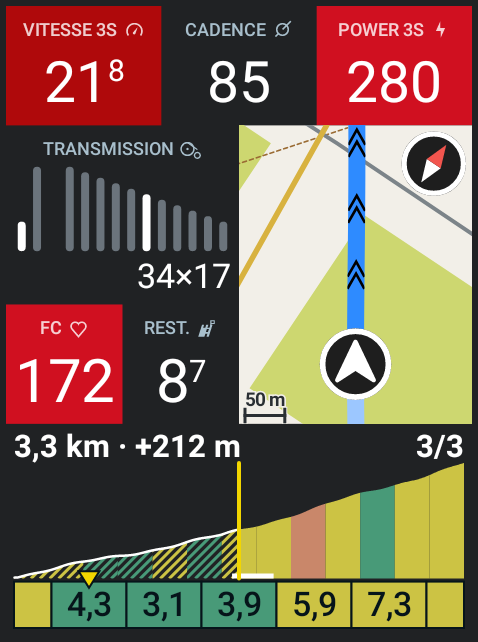
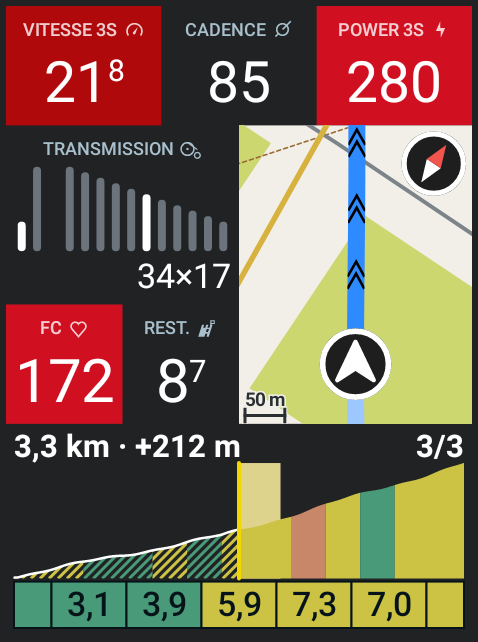
Fait partir les cases de pente du coureur, et marque leur portion d'une bande jaune
Les cases détaillent les 600 m qui viennent à partir du coureur, au bord gauche : aucune
marque n'a plus à dire où il est sur leur rangée. Sur le profil, la portion qu'elles
couvrent passe en aplat jaune pâle au-dessus de la silhouette, à la place du trait blanc.
Les tronçons voisins de même couleur ne font plus qu'un aplat, sans couture verticale.

diff --git a/app/src/main/kotlin/io/github/jmallus/guidage/ui/ProfileRenderer.kt b/app/src/main/kotlin/io/github/jmallus/guidage/ui/ProfileRenderer.kt
@@ -174,6 +174,13 @@ object ProfileRenderer {
         // L'étiquette de position tient dans l'en-tête ; sans en-tête, elle ne s'écrit pas.
         val etiquette = model.positionLabel?.takeIf { entetes }
 
+        // La portion que détaillent les cases, en aplat jaune pâle au-dessus de la silhouette :
+        // posé avant elle, il n'en reste visible que le ciel. C'est lui qui relie les deux
+        // échelles — sans lui, rien ne dirait que les six cases ne couvrent qu'un bout de côte.
+        model.climbZoom?.let { cote ->
+            val detail = model.climbDetail ?: (cote.startDistance..cote.endDistance)
+            drawDetailBand(canvas, model.window, detail, scale, left, top, right, bottom)
+        }
         drawProfile(canvas, model, scale, left, top, right, bottom, positionX, palette)
         // Cadré sur une côte, le voile qui en marque l'étendue couvrirait toute la bande, et sa
         // pente moyenne est déjà écrite dans l'en-tête.
@@ -187,8 +194,7 @@ object ProfileRenderer {
             // les kilomètres : la distance au sommet est déjà dans l'en-tête, et c'est la pente
             // du morceau qui vient qu'on cherche — comme sur le ClimbPro du Karoo.
             val detail = model.climbDetail ?: (cote.startDistance..cote.endDistance)
-            drawDetailBracket(canvas, model.window, detail, scale, left, right, bottom)
-            drawGradeRow(canvas, detail, troncons(cote, model.window.points), left, right, bottom, model.positionDistance, tickSize)
+            drawGradeRow(canvas, detail, troncons(cote, model.window.points), left, right, bottom, tickSize)
         } else {
             drawAxis(canvas, model, scale, left, right, bottom, tickSize, labelled, palette)
         }
@@ -371,7 +377,19 @@ object ProfileRenderer {
         // gardent les cent mètres de leur fenêtre.
         val pas = PROFILE_GRADE_STEPS.firstOrNull { ceil(climb.length / it) <= MAX_PROFILE_SEGMENTS }
             ?: PROFILE_GRADE_STEPS.last()
-        for ((debut, fin, pente) in troncons(climb, window.points, pas)) {
+        // Les tronçons voisins de même couleur ne font qu'un aplat : peints un à un, ils
+        // laissaient entre eux la couture d'un pixel que l'anticrénelage dessine au bord de
+        // chaque forme, et le profil se lisait rayé de traits verticaux.
+        val aplats = troncons(climb, window.points, pas).fold(mutableListOf<Troncon>()) { acc, t ->
+            val dernier = acc.lastOrNull()
+            if (dernier != null && climbColor(dernier.pente) == climbColor(t.pente)) {
+                acc[acc.lastIndex] = Troncon(dernier.debut, t.fin, t.pente)
+            } else {
+                acc += t
+            }
+            acc
+        }
+        for ((debut, fin, pente) in aplats) {
             val xa = x(debut)
             val xb = x(fin)
             if (xb <= xa) continue
@@ -482,7 +500,6 @@ object ProfileRenderer {
         left: Float,
         right: Float,
         bottom: Float,
-        position: Double?,
         tickSize: Float,
     ) {
         val etendue = (detail.endInclusive - detail.start).takeIf { it > 0.0 } ?: return
@@ -517,52 +534,22 @@ object ProfileRenderer {
             text.color = climbInk(troncon.pente)
             canvas.drawText(chiffre, (xa + xb) / 2f, ligne, text)
         }
-        // Le coureur sur la rangée, à l'échelle de celle-ci : la marque du profil, au-dessus,
-        // n'est pas à l'aplomb, les deux échelles différant.
-        // Un triangle posé sur le bord haut des cases, pointe en bas : un trait les traversait
-        // et coupait le chiffre de la case où l'on roule.
-        position?.takeIf { it in detail }?.let {
-            val xp = x(it)
-            val demi = tickSize * POSITION_TRIANGLE
-            val pointe = Path().apply {
-                moveTo(xp - demi, haut - demi)
-                lineTo(xp + demi, haut - demi)
-                lineTo(xp, haut + demi * 0.6f)
-                close()
-            }
-            canvas.drawPath(pointe, Paint(Paint.ANTI_ALIAS_FLAG).apply {
-                style = Paint.Style.FILL
-                color = CREST
-            })
-            canvas.drawPath(pointe, Paint(Paint.ANTI_ALIAS_FLAG).apply {
-                style = Paint.Style.STROKE
-                strokeWidth = 2f
-                color = GRADE_TILE_INK
-            })
-        }
     }
 
-    /**
-     * Sur le profil, la portion que détaillent les cases : un trait au pied de la silhouette,
-     * de la largeur de la fenêtre glissante. C'est lui qui relie les deux échelles — sans lui,
-     * rien ne dirait que les six cases ne couvrent qu'un bout de la côte.
-     */
-    private fun drawDetailBracket(
+    /** La bande jaune pâle de la portion détaillée, du haut du profil à son pied. */
+    private fun drawDetailBand(
         canvas: Canvas,
         window: ProfileWindow,
         detail: ClosedFloatingPointRange<Double>,
         scale: FisheyeScale,
         left: Float,
+        top: Float,
         right: Float,
         bottom: Float,
     ) {
         fun x(distance: Double) =
             (left + scale.fractionAt(distance - window.start) * (right - left)).toFloat().coerceIn(left, right)
-        val y = bottom - DETAIL_BRACKET_WIDTH / 2f
-        canvas.drawLine(x(detail.start), y, x(detail.endInclusive), y, Paint(Paint.ANTI_ALIAS_FLAG).apply {
-            color = DETAIL_BRACKET
-            strokeWidth = DETAIL_BRACKET_WIDTH
-        })
+        canvas.drawRect(x(detail.start), top, x(detail.endInclusive), bottom, Paint().apply { color = DETAIL_BAND })
     }
 
     private fun crestPaint(color: Int, width: Float) = Paint(Paint.ANTI_ALIAS_FLAG).apply {
@@ -968,12 +955,12 @@ object ProfileRenderer {
     private val PROFILE_GRADE_STEPS = listOf(100.0, 200.0, 250.0, 500.0, 1_000.0)
     private const val MAX_PROFILE_SEGMENTS = 16
 
-    /** Demi-largeur du triangle de position sur les cases, en corps de graduation. */
-    private const val POSITION_TRIANGLE = 0.4f
+    /**
+     * La bande de la portion détaillée : le jaune de l'itinéraire, pâli et voilé, pour qu'il ne
+     * rivalise pas avec le trait de position, franc.
+     */
+    private const val DETAIL_BAND = 0xD9FFF3A0.toInt()
 
-    /** Le trait qui marque, au pied du profil, la portion détaillée par les cases. */
-    private const val DETAIL_BRACKET = 0xFFFFFFFF.toInt()
-    private const val DETAIL_BRACKET_WIDTH = 5f
 
     /**
      * L'étiquette de position : l'encre sombre du nombre, son corps en part de celui des

diff --git a/app/src/main/kotlin/io/github/jmallus/guidage/extension/FieldModels.kt b/app/src/main/kotlin/io/github/jmallus/guidage/extension/FieldModels.kt
@@ -15,7 +15,6 @@ import io.github.jmallus.guidage.settings.GuidageSettings
 import io.github.jmallus.guidage.ui.PreviewData
 import io.github.jmallus.guidage.ui.ProfileFieldModel
 
-import kotlin.math.min
 
 /**
  * Ce qu'affiche le champ « Profil à venir », et l'heure d'arrivée qu'en tirent les autres.
@@ -84,18 +83,13 @@ object FieldModels {
             if (status != null) {
                 val cote = status.climb
                 // Deux échelles. Le profil montre la côte entière, du pied au sommet : c'est sa
-                // forme qu'on regarde. Les cases de pente, dessous, détaillent une fenêtre de
-                // 600 m qui glisse avec le coureur : à l'échelle de toute la côte, un col de six
-                // kilomètres ne laissait que trois chiffres lisibles devant lui. La fenêtre garde
-                // un tronçon derrière la marque et s'arrête au sommet ; une côte plus courte
-                // qu'elle est détaillée en entier.
-                val debut = if (cote.length <= CLIMB_WINDOW_METERS) {
-                    cote.startDistance
-                } else {
-                    (quantized - CLIMB_WINDOW_METERS * CLIMB_RECUL_FRACTION)
-                        .coerceIn(cote.startDistance, cote.endDistance - CLIMB_WINDOW_METERS)
-                }
-                val longueur = min(cote.length, CLIMB_WINDOW_METERS)
+                // forme qu'on regarde. Les cases de pente, dessous, détaillent les 600 m qui
+                // viennent, à leur échelle à elles : à celle de toute la côte, un col de six
+                // kilomètres ne laissait que trois chiffres lisibles. Elles partent du coureur,
+                // au bord gauche, comme sur le Climber : ce qu'on a derrière soi n'y a pas de
+                // place, et aucune marque n'a donc à dire où l'on est.
+                val debut = quantized.coerceIn(cote.startDistance, cote.endDistance)
+                val longueur = CLIMB_WINDOW_METERS
                 return ProfileFieldModel(
                     window = Guidance.profileWindow(route, cote.startDistance, cote.length),
                     climbDetail = debut..(debut + longueur),
@@ -184,11 +178,8 @@ object FieldModels {
     private const val RECUL_FRACTION = 0.2
 
     /**
-     * La portée du zoom de côte : six tronçons de cent mètres (m), le gros plan du Climber
-     * du Karoo, où cinq ou six cases de pente tiennent sous le profil.
+     * Ce que détaillent les cases de pente sous le zoom de côte : six tronçons de cent mètres
+     * (m), le gros plan du Climber du Karoo.
      */
     private const val CLIMB_WINDOW_METERS = 600.0
-
-    /** La part de cette fenêtre laissée derrière le coureur : un tronçon. */
-    private const val CLIMB_RECUL_FRACTION = 1.0 / 6.0
 }

diff --git a/README.md b/README.md
@@ -23,7 +23,7 @@ Chaque champ est montré à **478 × 642 px**, la place que le Karoo 3 lui accor
 
 | Champ | Type | Contenu |
 | --- | --- | --- |
-| **Tableau de bord** | graphique, plein écran | Une page tenant tout l'écran : vitesse, cadence et puissance sur 3 secondes, transmission en schéma, fréquence cardiaque, minicarte orientée cap en haut sur fond de carte hors ligne, distance restante à côté du cœur, et sur tout le bas de l'écran le profil de **ce qui arrive**, à échelle régulière et sur la portée réglée. Le verdict du soir a quitté cette page : il a sa propre case de bilan, où l'heure d'arrivée se lit en grand à côté du coucher. Vitesse, puissance et fréquence cardiaque prennent la couleur de leur zone. Une pression sur le **haut** change l'échelle de la carte, une pression sur le **bas** la portée du profil. **Dans une côte**, le profil du bas passe en gros plan comme le Climber du Karoo : 600 m autour du coureur, découpés en tronçons de 100 m aux couleurs de pente du Karoo, chacun avec sa pente à une décimale dans une case dessous, la part montée hachurée, et en tête, en blanc, la distance et le dénivelé jusqu'au sommet et le rang de la côte (« 2/3 »). Il revient à sa portée une fois le sommet passé. |
+| **Tableau de bord** | graphique, plein écran | Une page tenant tout l'écran : vitesse, cadence et puissance sur 3 secondes, transmission en schéma, fréquence cardiaque, minicarte orientée cap en haut sur fond de carte hors ligne, distance restante à côté du cœur, et sur tout le bas de l'écran le profil de **ce qui arrive**, à échelle régulière et sur la portée réglée. Le verdict du soir a quitté cette page : il a sa propre case de bilan, où l'heure d'arrivée se lit en grand à côté du coucher. Vitesse, puissance et fréquence cardiaque prennent la couleur de leur zone. Une pression sur le **haut** change l'échelle de la carte, une pression sur le **bas** la portée du profil. **Dans une côte**, le profil du bas passe en mode Climber, comme sur le Karoo : la côte entière du pied au sommet, aux couleurs de pente du Karoo, la part montée hachurée ; dessous, six cases donnent la pente des 600 m qui viennent, tronçon de 100 m par tronçon de 100 m, et une bande jaune pâle montre sur le profil la portion qu'elles détaillent. En tête, en blanc, la distance et le dénivelé jusqu'au sommet et le rang de la côte (« 2/3 »). Il revient à sa portée une fois le sommet passé. |
 | **Profil à venir** | graphique | Tout ce qui reste à parcourir, **à échelle comprimée au loin** : la rampe dans trois cents mètres et le col de la fin dans la même bande. Silhouette au jaune du Karoo, côtes surlignées avec leur pente moyenne, dénivelé positif restant. |
 | **Prochain point d'intérêt** | numérique | Distance jusqu'au prochain POI de l'itinéraire (eau, ravitaillement, contrôle…), formatée dans vos unités. |
 
